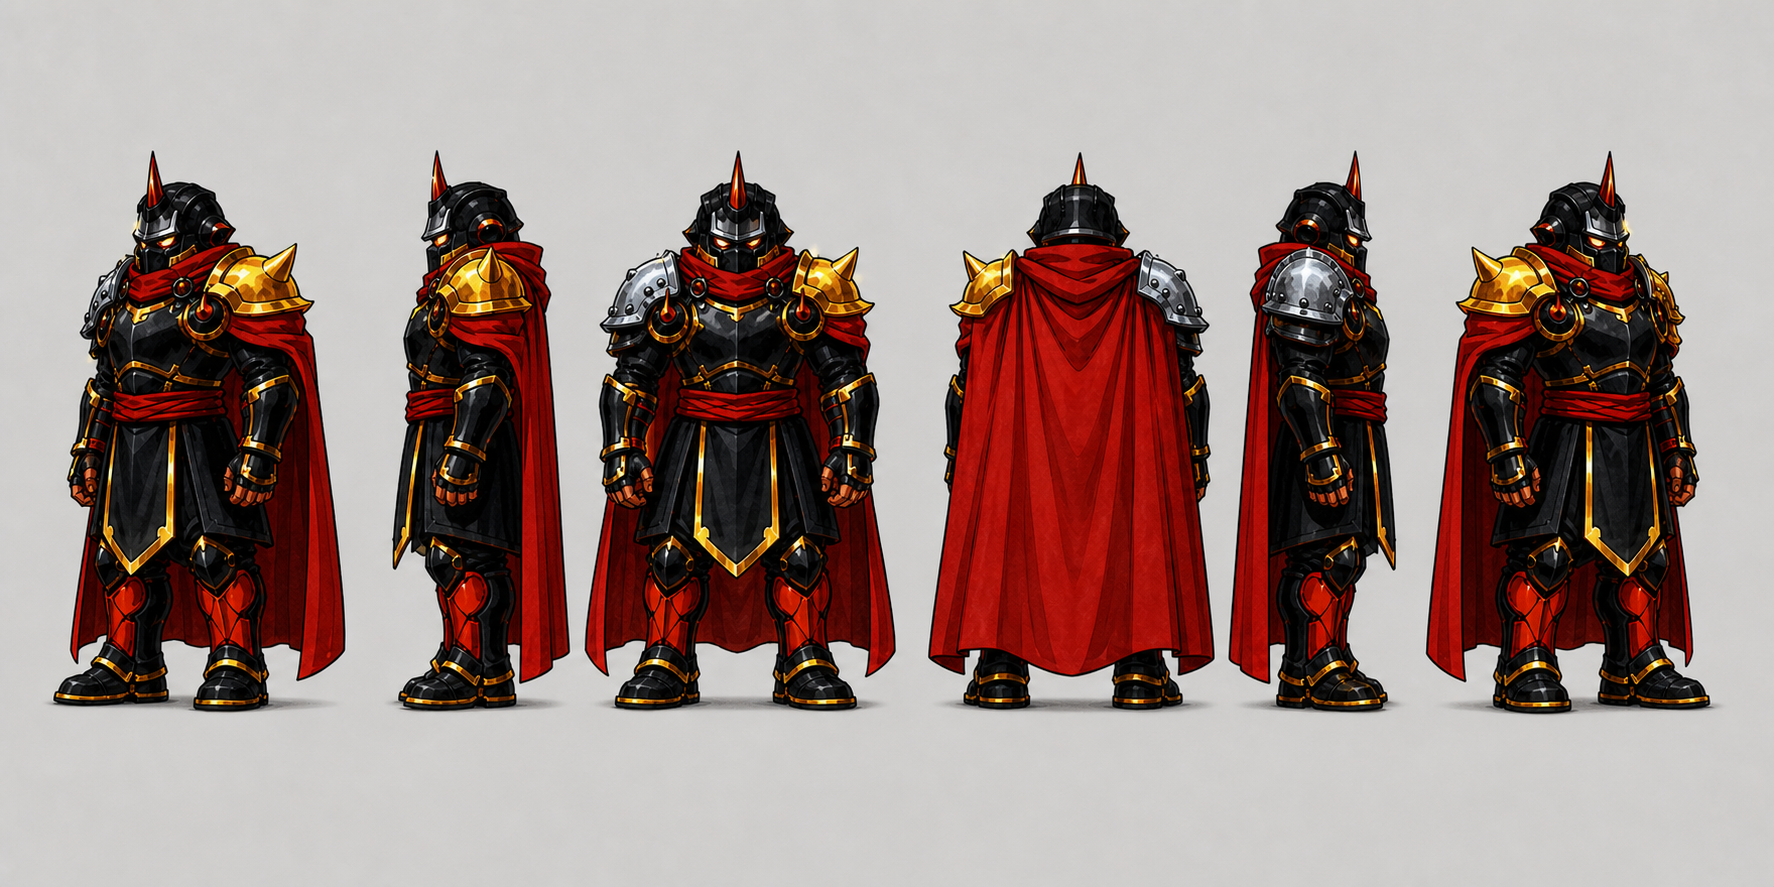
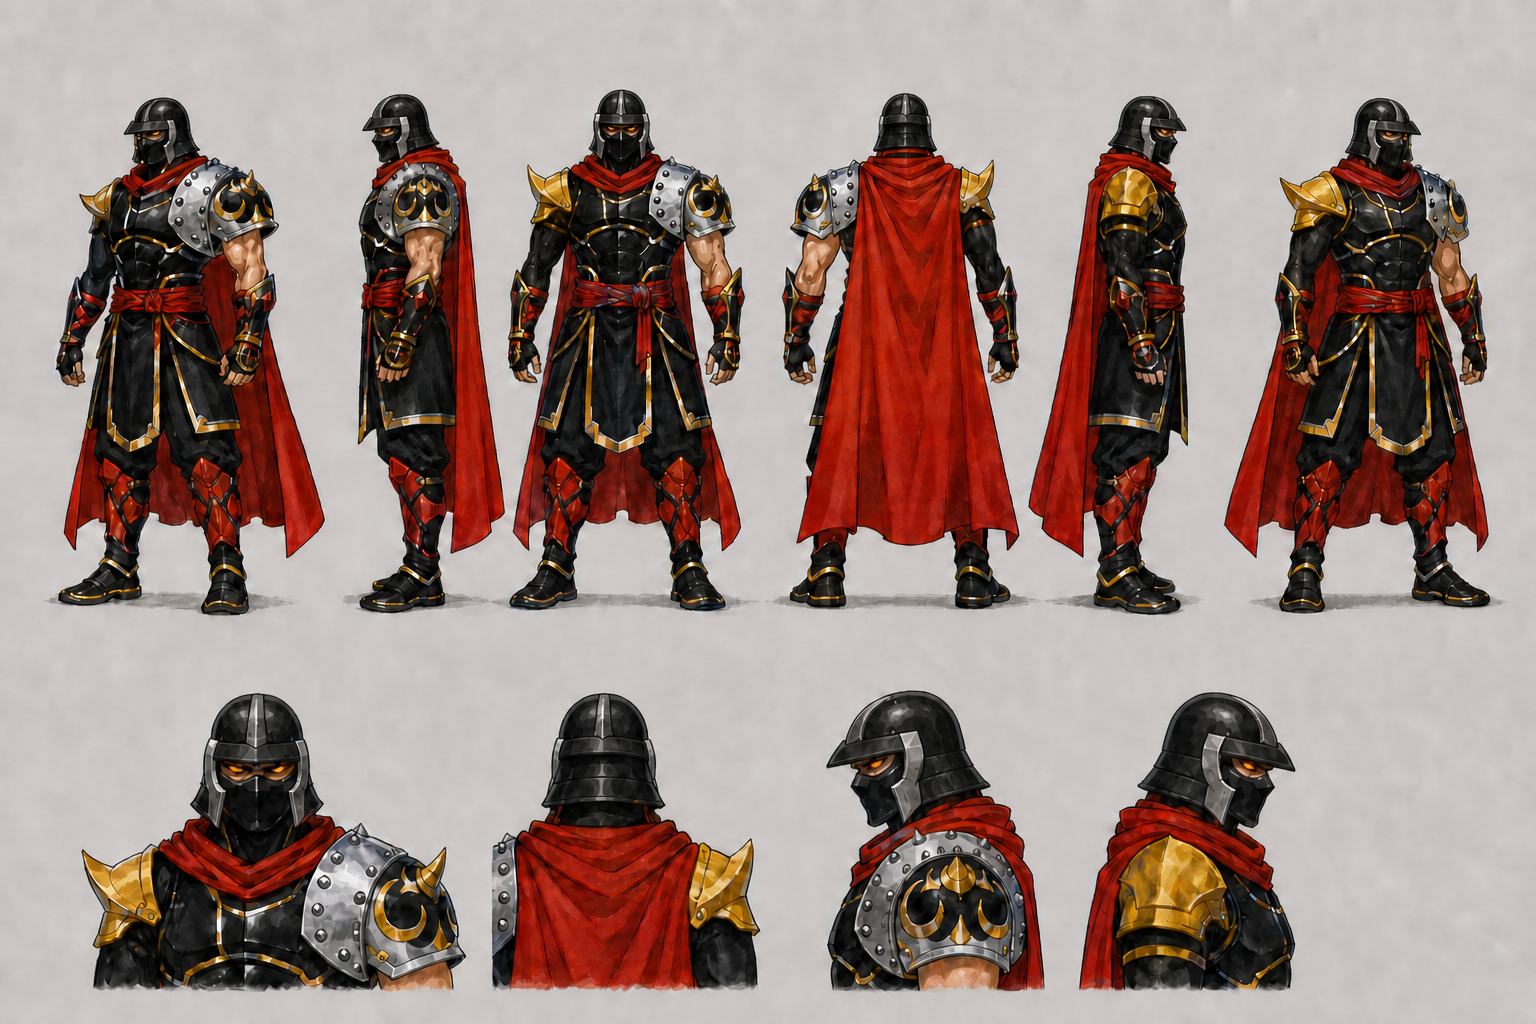
fix(008): 修正角色体型与头盔设计
重新生成健硕体型的六视图与头部四视图，锁定左右肩甲及裸臂关系。\n\n补正仅位于前脸的帽檐并移除头顶角，保留返修版本、生成提示与证据记录。

diff --git a/character-model-sheets/characters/008/review-notes.md b/character-model-sheets/characters/008/review-notes.md
@@ -1,5 +1,27 @@
 # 008 新版六视图生产复核
 
+## 2026-08-21 用户返修
+
+- 现有人物表未获批准：人物整体被做成短躯干、桶状胸腹与粗短四肢，偏离原画和用户手绘稿中的健硕、收腰、四肢有力体型。
+- 本轮只重生人物设定表；独立武器表保持不变。
+- 头部返修锁定贴头黑色分片盔与银灰竖向中脊、只连接额头正面并止于太阳穴的黑色前檐、前檐阴影下的狭长发光橙眼缝与贴脸面罩；按用户设计覆盖移除原画头顶红橙尖角，禁止任何角根、残片、环形帽檐、侧后檐、后檐、环形银色额带和厚重栅格面甲。
+- 盔甲／上肢返修锁定：角色自身左肩银灰圆弧铆钉肩甲并裸露上臂；角色自身右肩较小金黄尖角肩甲并连接黑色甲袖，不得换边或扩大成巨型肩甲。
+- 新版必须补齐固定顺序的头部四视图：正面、背面、左侧面、右侧面。
+
+### 重绘结果复核
+
+- [x] 主文件已重新生成，旧主文件保留为 `character-turnaround-v2.png`；独立武器表未修改。
+- [x] 六个全身视角改为约七头身的健硕战士比例，肩宽适中、胸腹收束、四肢有力且不再粗短。
+- [x] 六视图顺序正确；第一列与第六列来自相反侧面基准，近侧肩甲和远侧遮挡相反。
+- [x] 角色自身左肩始终为银灰铆钉肩甲并连接裸露上臂；角色自身右肩始终为较小金黄尖角肩甲并连接黑色甲袖。
+- [x] 已加入正面、背面、左侧面、右侧面四个等比例头肩放大视图；左右侧面不是复制或水平翻转。
+- [x] 头盔二次返修已执行，但用户否决：帽檐被误画成绕头一周的环形结构。
+- [x] 头盔三次返修：前檐只连接额头正面并止于太阳穴；侧面太阳穴之后没有檐边，纯背面完全没有帽檐。
+- [x] 无帽檐版已保留为 `character-turnaround-v3.png`；环形帽檐版已保留为 `character-turnaround-v4.png`，当前主文件为前脸专用帽檐修正版。
+- [x] 头盔四次返修：已删除六个全身视图与四个头部放大视图中的全部头顶角，并以连续黑色分片盔壳补齐角根区域；银灰中脊平贴盔顶，没有形成新尖角。
+- [x] 有角的前脸帽檐版已保留为 `character-turnaround-v5.png`，当前主文件为无头顶角版本；肩甲装饰尖角保持不变。
+- [x] 无武器、场景、文字、水印、裁切、多余肢体或重复人物。
+
 - 状态：`generated`，人物六视图与所需独立实体均已生成并通过全量复核；未标记为 `approved`。
 - 需交付：人物六视图；武器／标志道具。
 
